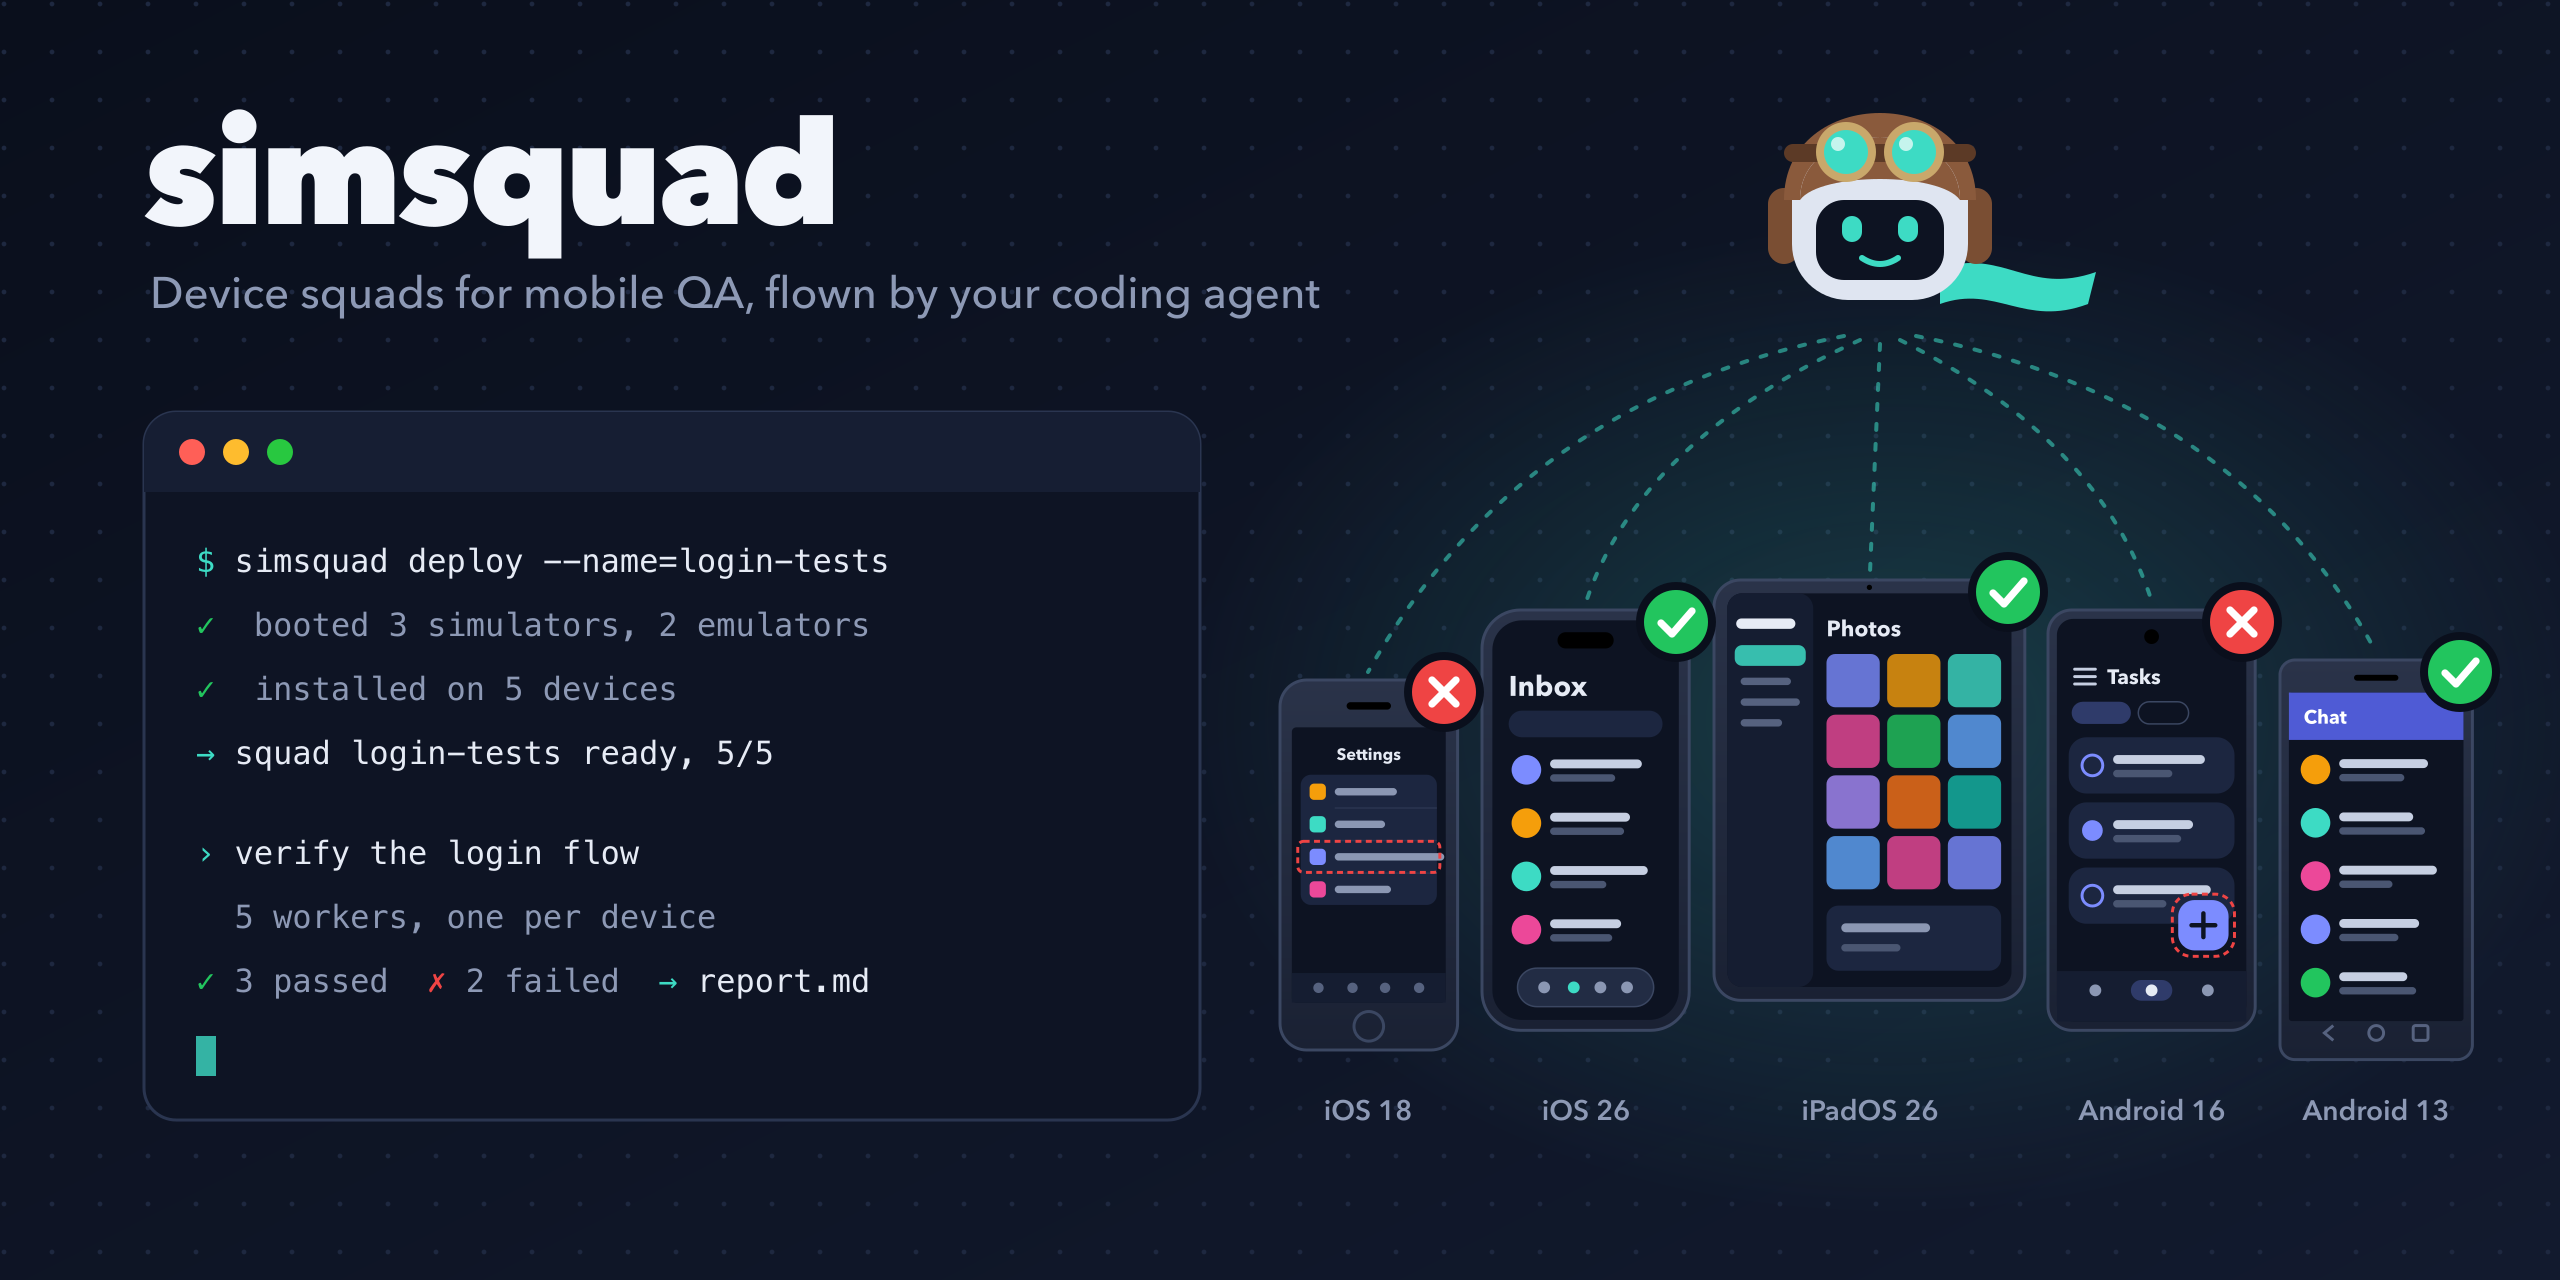
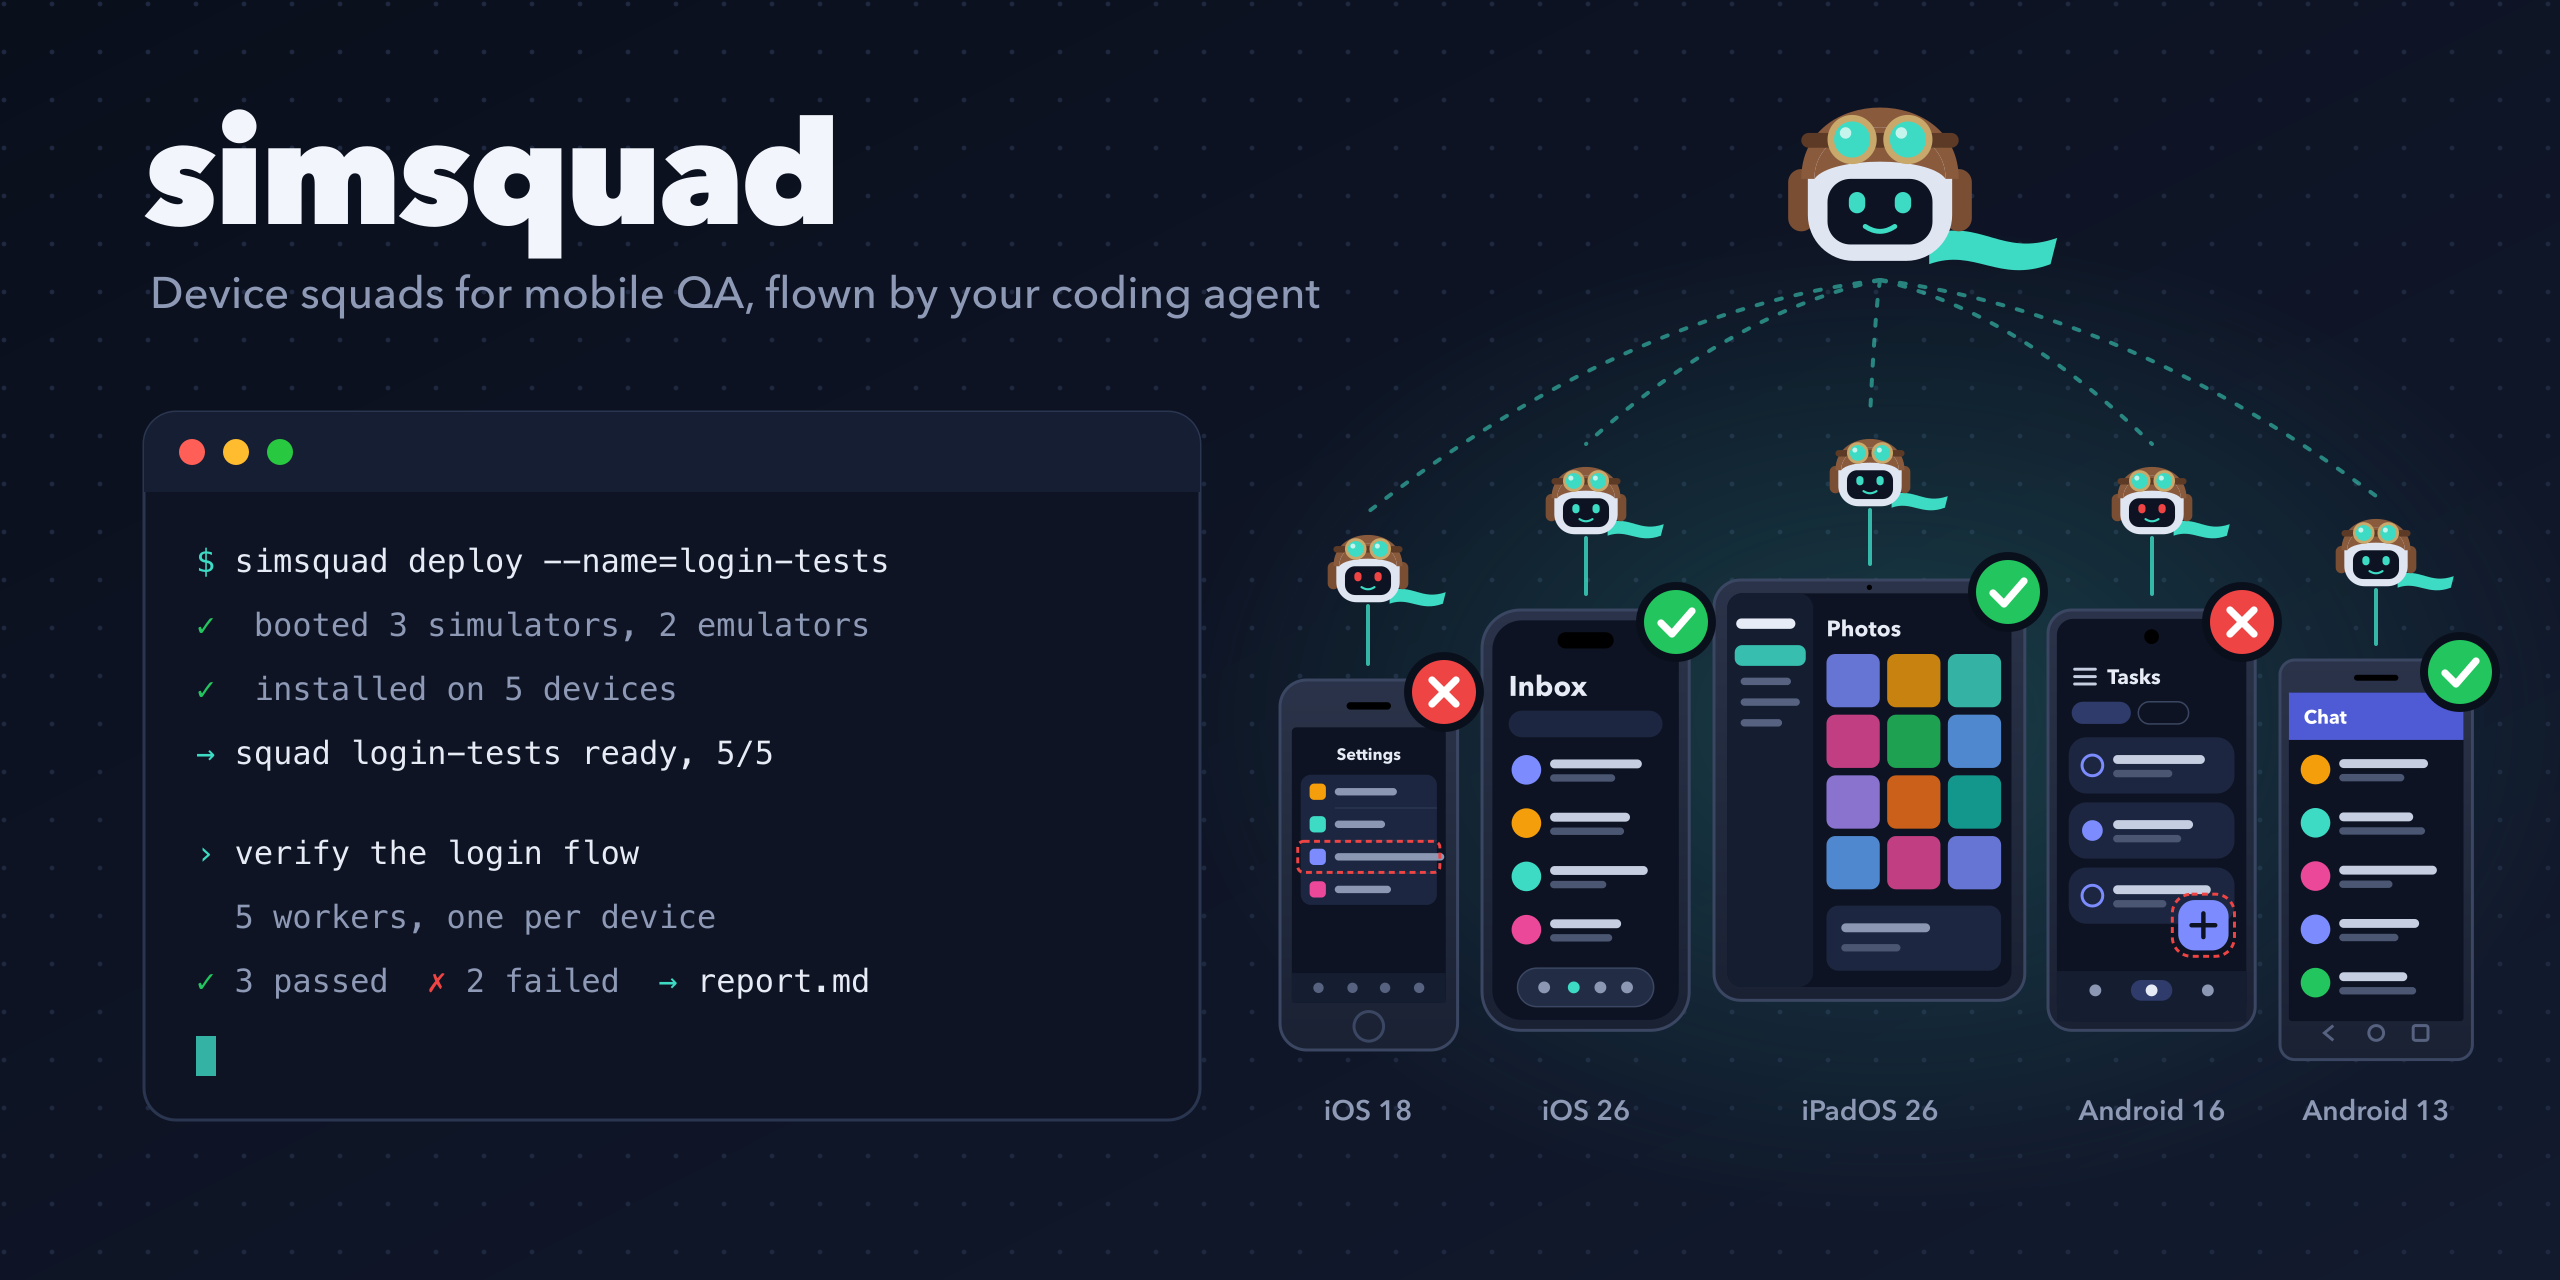
Show the agent as a fleet in the hero image

diff --git a/README.md b/README.md
@@ -1,6 +1,6 @@
 # simsquad
 
-![simsquad: a coding agent pilots a squad of iOS and Android devices, three pass and two fail](docs/hero.png)
+![simsquad: a lead agent sends a worker to each iOS and Android device; three pass and two fail](docs/hero.png)
 
 A single-binary device-squad provisioner for parallel mobile QA on macOS.
 
